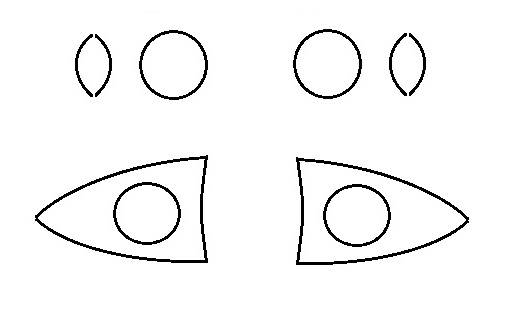
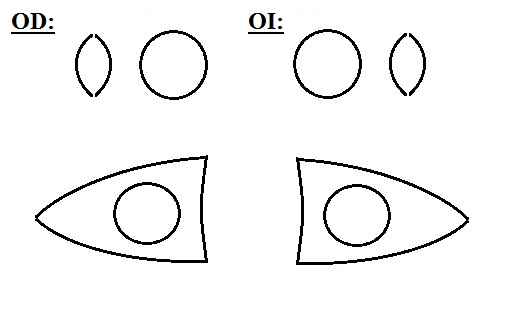
Contenedor base de evoluciones

Changed region(s): [[0.0, 0.0291, 0.1248, 0.1165], [0.4678, 0.0291, 0.5614, 0.1165]]

diff --git a/js/historias_evoluciones.js b/js/historias_evoluciones.js
@@ -43,6 +43,29 @@ qs('#bio-rango').addEventListener('input', e => {
     qs('#bio-valor').innerHTML = e.target.value
 
 })
+
+/* -------------------------------------------------------------------------------------------------*/
+/* ----------------------------------- CANVAS - FONDO DE OJO ---------------------------------------*/
+/* -------------------------------------------------------------------------------------------------*/
+window.fondBio = new Canvas('fondo-imagen', 'fondo-seleccionar', 'fondo-remover', true)
+
+fondBio.asignarImagen('../imagenes/fondo_ojo.jpg')
+
+fondBio.asignarDibujadoInicial('black', 5)
+fondBio.asignarDibujados('.fondo-dibujar')
+fondBio.asignarGrosores('.fondo-slider')
+fondBio.asignarTexto('fondo-texto')
+
+fondBio.formaPersonalizada('fondo-forma-1', {fill: 'transparent', stroke: 'black'}, `M120.8602,63.449056q-35.096527,12.657935,1.231457,16.110097c-33.733296,1.493948-24.361628,9.178024-19.13719,12.65793c5.954242,4.009143,8.235845,6.572201,19.137189,5.41465c15.917545,2.858628,10.301356,7.253808-10.467384,14.147614s9.150424,6.306059,24.002112,9.876084-6.940727,9.16262-24.002112,15.137051s6.463382,11.089412,54.223099,12.978716c29.557498-2.378651,26.944529-10.507104,0-18.735085-6.85772-4.456182,8.674524-10.753465,21.258366-19.832125c9.604973-14.443615-3.017407-16.348224-30.841146-13.572255-6.26459-5.41465,9.58278-3.113205,9.58278-18.07258-20.111397,7.916884-34.124788,8.305147-25.873841-2.301445c4.656984-5.986552,17.376705-3.438281,16.291061-16.110098q-.307863-10.356493-35.40439,2.301445Z`)
+
+////////////////////////////////////////////////////////////////////////////////////////////////
+qs('#fondo-valor').innerHTML = qs('#bio-rango').value
+////////////////////////////////////////////////////////////////////////////////////////////////
+qs('#fondo-rango').addEventListener('input', e => {
+
+    qs('#fondo-valor').innerHTML = e.target.value
+
+})
 ////////////////////////////////////////////////////////////////////////////////////////////////
 //COMO CAPTURAR LAS IMAGENES
 // qs('#bio-capturar').addEventListener('click', function () {

diff --git a/cruds/historias_evoluciones.crud.php b/cruds/historias_evoluciones.crud.php
@@ -528,12 +528,7 @@
                 </section>
 
                 <section class="dibujar-contenedor-v">
-                  
-                  <section class="titulo">
-                    <label style="width: 50%; text-align: center; font-size: 20px; font-weight: bold; border-bottom: 1px solid; margin-bottom: 2px;">OD:</label>
-                    <label style="width: 50%; text-align: center; font-size: 20px; font-weight: bold; border-bottom: 1px solid; margin-bottom: 2px;">OI:</label>
-                  </section>
-
+                
                   <canvas id="bio-imagen" width="513" height="309"></canvas>
 
                 </section>
@@ -559,6 +554,210 @@
                 <div>Fondo de ojo</div>
               </div>
 
+              <div class="columnas" style="align-items: baseline;">
+                
+                <section class="dibujar-herramientas-v">
+                  
+                  <div class="dibujar-colores-v">
+          
+                    <button class="fondo-dibujar" data-color="black"></button>
+                    <button class="fondo-dibujar" data-color="red"></button>
+                    <button class="fondo-dibujar" data-color="blue"></button>
+                    <button class="fondo-dibujar" data-color="yellow"></button>
+                    <button class="fondo-dibujar" data-color="orange"></button>
+                    <button class="fondo-dibujar" data-color="green"></button>
+                    <button class="fondo-dibujar" data-color="purple"></button>
+                    <button class="fondo-dibujar" data-color="pink"></button>
+                    <button class="fondo-dibujar" data-color="brown"></button>
+
+                  </div>
+
+                  <div class="dibujar-rango-v">
+                      <input id="fondo-rango" type="range" min="1" max="5" value="5" class="fondo-slider">
+                      <div id="fondo-valor"></div>
+                  </div>
+
+                  <div class="dibujar-botones-v">
+                    
+                    <button id="fondo-seleccionar" title="Seleccionar objeto">
+                      <svg class="iconos-b" xmlns="http://www.w3.org/2000/svg" height="1em" viewBox="0 0 320 512"><path fill="currentColor" d="M0 55.2V426c0 12.2 9.9 22 22 22c6.3 0 12.4-2.7 16.6-7.5L121.2 346l58.1 116.3c7.9 15.8 27.1 22.2 42.9 14.3s22.2-27.1 14.3-42.9L179.8 320H297.9c12.2 0 22.1-9.9 22.1-22.1c0-6.3-2.7-12.3-7.4-16.5L38.6 37.9C34.3 34.1 28.9 32 23.2 32C10.4 32 0 42.4 0 55.2z"/></svg>
+                    </button>
+                    <button id="fondo-texto" title="Escribir">
+                      <svg class="iconos-b" role="img" xmlns="http://www.w3.org/2000/svg" viewBox="0 0 512 512"><path fill="currentColor" d="M497.9 142.1l-46.1 46.1c-4.7 4.7-12.3 4.7-17 0l-111-111c-4.7-4.7-4.7-12.3 0-17l46.1-46.1c18.7-18.7 49.1-18.7 67.9 0l60.1 60.1c18.8 18.7 18.8 49.1 0 67.9zM284.2 99.8L21.6 362.4.4 483.9c-2.9 16.4 11.4 30.6 27.8 27.8l121.5-21.3 262.6-262.6c4.7-4.7 4.7-12.3 0-17l-111-111c-4.8-4.7-12.4-4.7-17.1 0zM124.1 339.9c-5.5-5.5-5.5-14.3 0-19.8l154-154c5.5-5.5 14.3-5.5 19.8 0s5.5 14.3 0 19.8l-154 154c-5.5 5.5-14.3 5.5-19.8 0zM88 424h48v36.3l-64.5 11.3-31.1-31.1L51.7 376H88v48z"></path></svg>
+                    </button>
+                    <button id="fondo-remover" disabled="disabled" title="Eliminar objeto seleccionado">
+                      <svg class="iconos-b" aria-hidden="true" focusable="false" data-prefix="fas" data-icon="trash-alt" role="img" xmlns="http://www.w3.org/2000/svg" viewBox="0 0 448 512"><path fill="currentColor" d="M32 464a48 48 0 0 0 48 48h288a48 48 0 0 0 48-48V128H32zm272-256a16 16 0 0 1 32 0v224a16 16 0 0 1-32 0zm-96 0a16 16 0 0 1 32 0v224a16 16 0 0 1-32 0zm-96 0a16 16 0 0 1 32 0v224a16 16 0 0 1-32 0zM432 32H312l-9.4-18.7A24 24 0 0 0 281.1 0H166.8a23.72 23.72 0 0 0-21.4 13.3L136 32H16A16 16 0 0 0 0 48v32a16 16 0 0 0 16 16h416a16 16 0 0 0 16-16V48a16 16 0 0 0-16-16z"></path></svg>
+                    </button>
+
+                  </div>
+
+                  <div class="dibujar-formas-v">
+                    
+                    <button id="fondo-forma-1" title="Forma1">F</button>
+                    <button title="---">-</button>
+                    <button title="---">-</button>
+                    <button title="---">-</button>
+                    <button title="---">-</button>
+                    <button title="---">-</button>
+                    <button title="---">-</button>
+                    <button title="---">-</button>
+                    <button title="---">-</button>
+                    <button title="---">-</button>
+                    <button title="---">-</button>
+                    <button title="---">-</button>
+
+                  </div>
+
+                </section>
+
+                <section class="dibujar-contenedor-v">
+                
+                  <canvas id="fondo-imagen" width="513" height="309"></canvas>
+
+                </section>
+
+              </div>
+
+              <div class="columnas">
+                
+                <div>     
+                  <label>Fondo de ojo OD:</label>
+                  <textarea rows="3" id="evoluciones-nota-f-od" data-previa="evoluciones-previa" data-valor="nota-f-od" class="evoluciones-valores upper textarea-espaciado contenedor-personalizable" style="resize:none;" data-scroll ></textarea>
+                </div>
+
+                <div>     
+                  <label>Fondo de ojo OI:</label>
+                  <textarea rows="3" id="evoluciones-nota-f-oi" data-previa="evoluciones-previa" data-valor="nota-f-oi" class="evoluciones-valores upper textarea-espaciado contenedor-personalizable" style="resize:none;" data-scroll ></textarea>
+                </div>
+
+              </div>
+
+              <div class="titulo">
+                <div>6</div>
+                <div>PIO, Estudios, IDX</div>
+              </div>
+
+              <div class="columnas" style="flex-direction: column; align-items: baseline;">
+
+                <label>PIO</label>
+
+                <div style="margin: 0px; flex-direction: row; column-gap: 10px;">
+                  <div>    
+                    <input type="text" data-valor="pio_od" class="evoluciones-valores upper decimales" placeholder="OD - 0.00mmHg">
+                  </div>
+
+                  <div>
+                    <input type="text" data-valor="pio_oi" class="evoluciones-valores upper decimales" placeholder="OI - 0.00mmHg">
+                  </div>  
+                </div>
+
+              </div>
+
+              <div class="columnas">
+                
+                <div style="position:relative;">
+
+                  <label>
+                    Estudios:
+                  </label>
+                  
+                  <style>
+                    #cc-estudios-evoluciones .ccContenedor {
+                       width: 95%;
+                    }
+                  </style>
+
+                  <section id="cc-estudios-evoluciones" class="contenedor-consulta evoluciones-valores borde-estilizado" data-valor="referencias">
+
+                    <input type="text" data-estilo="cc-input" class="upper" data-minimo="0" data-ocultar="0" placeholder="Buscar estudios" title="[ENTER] para forzar actualización">
+                    <select data-limit="" data-estilo="cc-select" placeholder="Buscar estudios" data-size="5" data-ocultar="1" data-hide data-absoluto="1" data-scroll style="
+                      height: auto;
+                      border: 1px dashed #5eb6fb;
+                      border-top: none;
+                      background: #ddf4ffc2;
+                      padding: 0px 5px;
+                      margin: 0px;
+                      color: black;
+                    "></select>
+                    <div data-estilo="cc-div" style="background: #fff; min-height: 80px; max-height: 85px; border: none;" data-scroll></div>
+
+                  </section>
+
+                </div>
+
+                <div style="position:relative;">
+
+                  <label>
+                    IDX:
+                  </label>
+                  
+                  <style>
+                    #cc-diagnosticos-evoluciones .ccContenedor {
+                       width: 95%;
+                    }
+                  </style>
+
+                  <section id="cc-diagnosticos-evoluciones" class="contenedor-consulta evoluciones-valores borde-estilizado" data-valor="diagnosticos">
+
+                    <input type="text" data-estilo="cc-input" class="upper" data-minimo="0" data-ocultar="0" placeholder="Buscar diagnósticos" title="[ENTER] para forzar actualización">
+                    <select data-limit="" data-estilo="cc-select" placeholder="Buscar diagnóstico" data-size="5" data-ocultar="1" data-hide data-absoluto="1" data-scroll style="
+                      height: auto;
+                      border: 1px dashed #5eb6fb;
+                      border-top: none;
+                      background: #ddf4ffc2;
+                      padding: 0px 5px;
+                      margin: 0px;
+                      color: black;
+                    "></select>
+                    <div data-estilo="cc-div" style="background: #fff; min-height: 80px; max-height: 85px; border: none;" data-scroll></div>
+
+                  </section>
+
+                </div>
+
+              </div>
+
+              <div class="titulo">
+                <div>7</div>
+                <div>Plan & fórmula</div>
+              </div>
+
+              <div class="columnas rx" style="flex-direction: column; align-items: baseline;">
+
+                <label style="font-size: 20px; height: 25px; border-bottom: 1px solid; width: 100%; margin-bottom: 10px;">
+                  Fórmula
+                </label>
+
+                <div style="margin: 0px; flex-direction: column; row-gap: 10px;">
+                  <div style="flex-direction: row; justify-content: center; align-items: center;">
+                    <label style="padding-right: 3px">OD:</label>
+                    <input type="checkbox" data-valor="formula_od_signo_1_ciclo" class="evoluciones-valores check checksigno">
+                    <input type="text" data-valor="formula_od_valor_1_ciclo" class="evoluciones-valores upper decimales" placeholder="0.00">
+                    <input type="checkbox" data-valor="formula_od_signo_2_ciclo" class="evoluciones-valores check checksigno">
+                    <input type="text" data-valor="formula_od_valor_2_ciclo" class="evoluciones-valores upper decimales" placeholder="0.00">
+                    <span   class="evolucion-separador">X</span>
+                    <input type="text" data-valor="formula_od_grados_ciclo" class="evoluciones-valores upper" placeholder="0">
+                    <span   class="evolucion-grado">°</span>
+                  </div>
+
+                  <div style="flex-direction: row; justify-content: center; align-items: center;">
+                    <label style="padding-right: 9px">OI:</label>
+                    <input type="checkbox" data-valor="formula_oi_signo_1_ciclo" class="evoluciones-valores check checksigno">
+                    <input type="text" data-valor="formula_oi_valor_1_ciclo" class="evoluciones-valores upper decimales" placeholder="0.00">
+                    <input type="checkbox" data-valor="formula_oi_signo_2_ciclo" class="evoluciones-valores check checksigno">
+                    <input type="text" data-valor="formula_oi_valor_2_ciclo" class="evoluciones-valores upper decimales" placeholder="0.00">
+                    <span   class="evolucion-separador">X</span>
+                    <input type="text" data-valor="formula_oi_grados_ciclo" class="evoluciones-valores upper" placeholder="0">
+                    <span   class="evolucion-grado">°</span>
+                  </div>
+                </div>
+
+              </div>
+
+              <div>     
+                <label>Plan:</label>
+                <textarea rows="6" id="evoluciones-plan" data-previa="evoluciones-previa" data-valor="plan" class="evoluciones-valores upper textarea-espaciado contenedor-personalizable" style="resize:none;" data-scroll ></textarea>
+              </div>
 
             </section>
 
